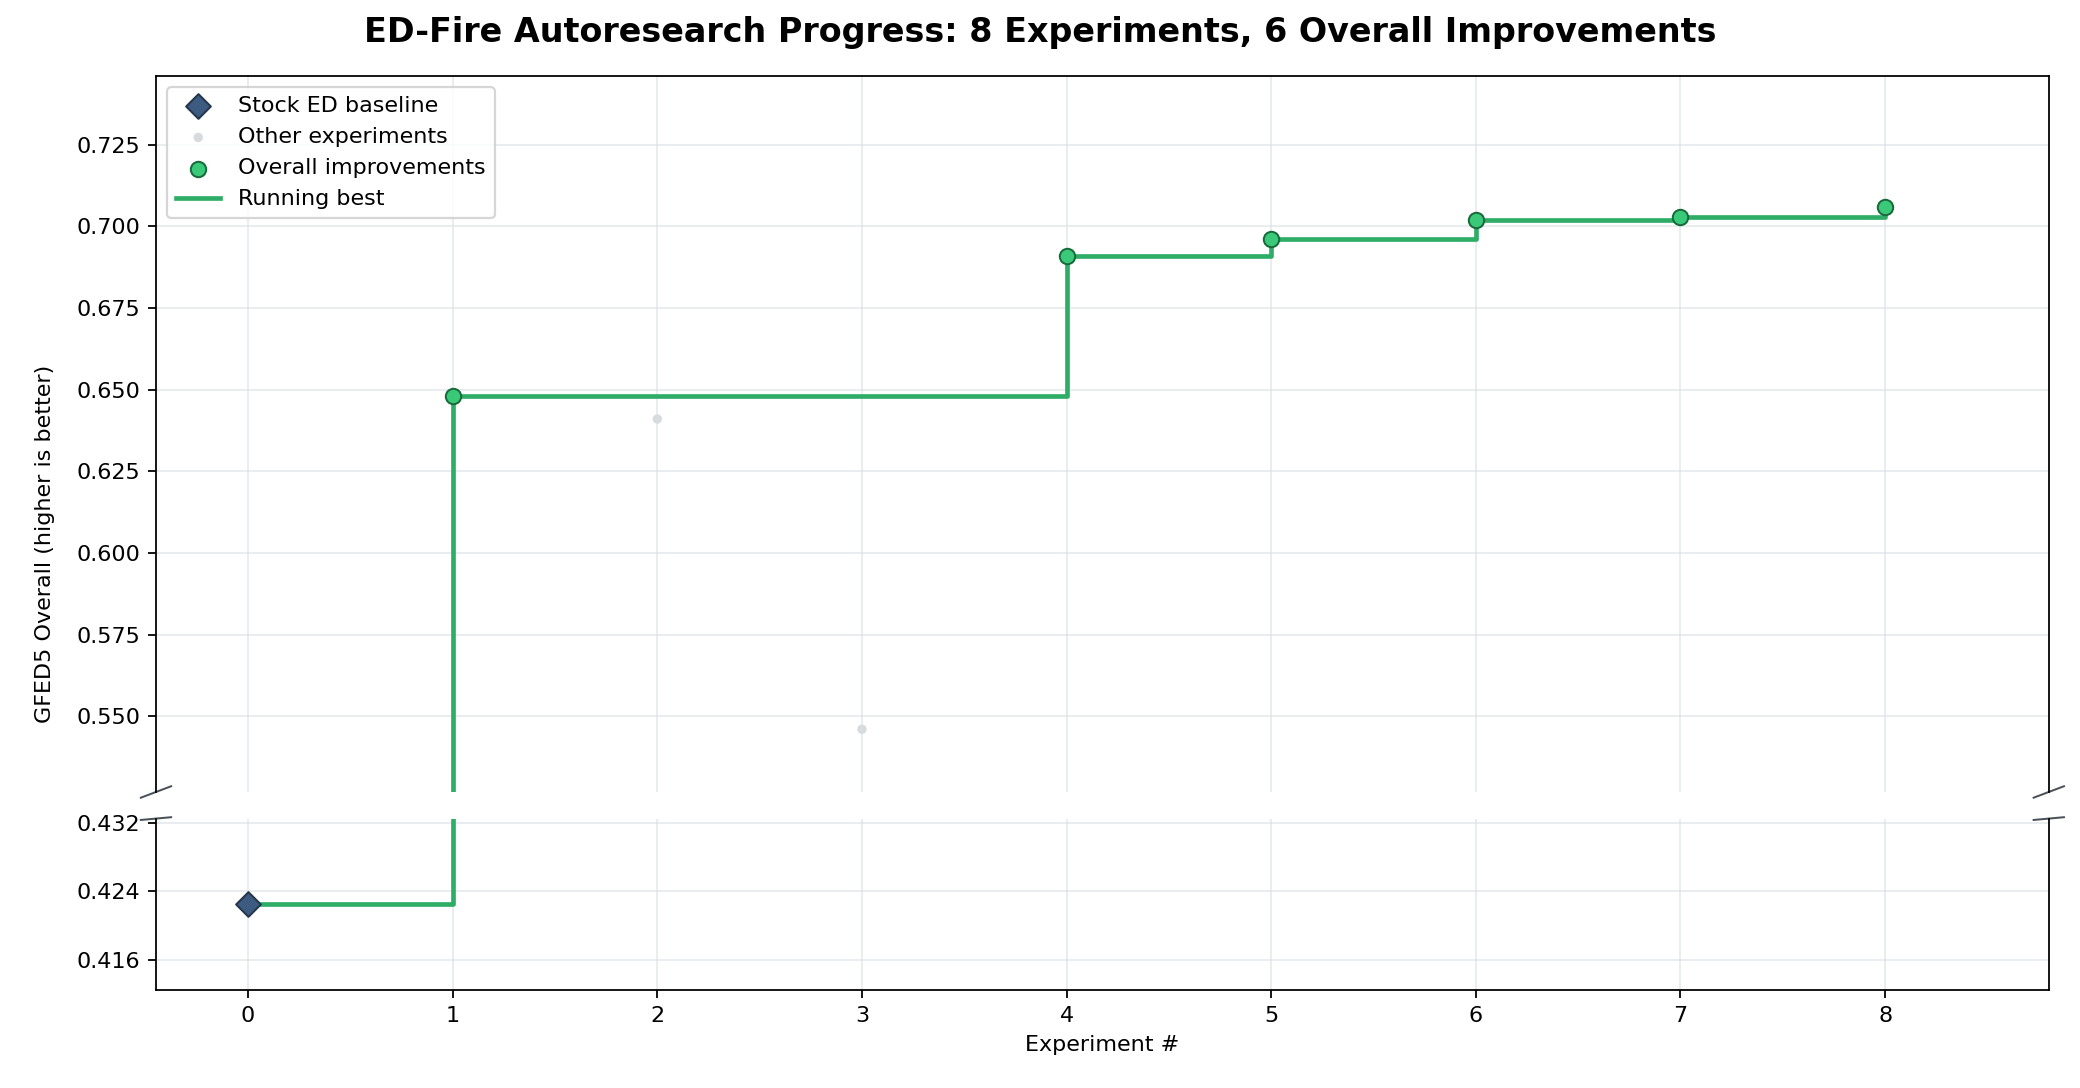
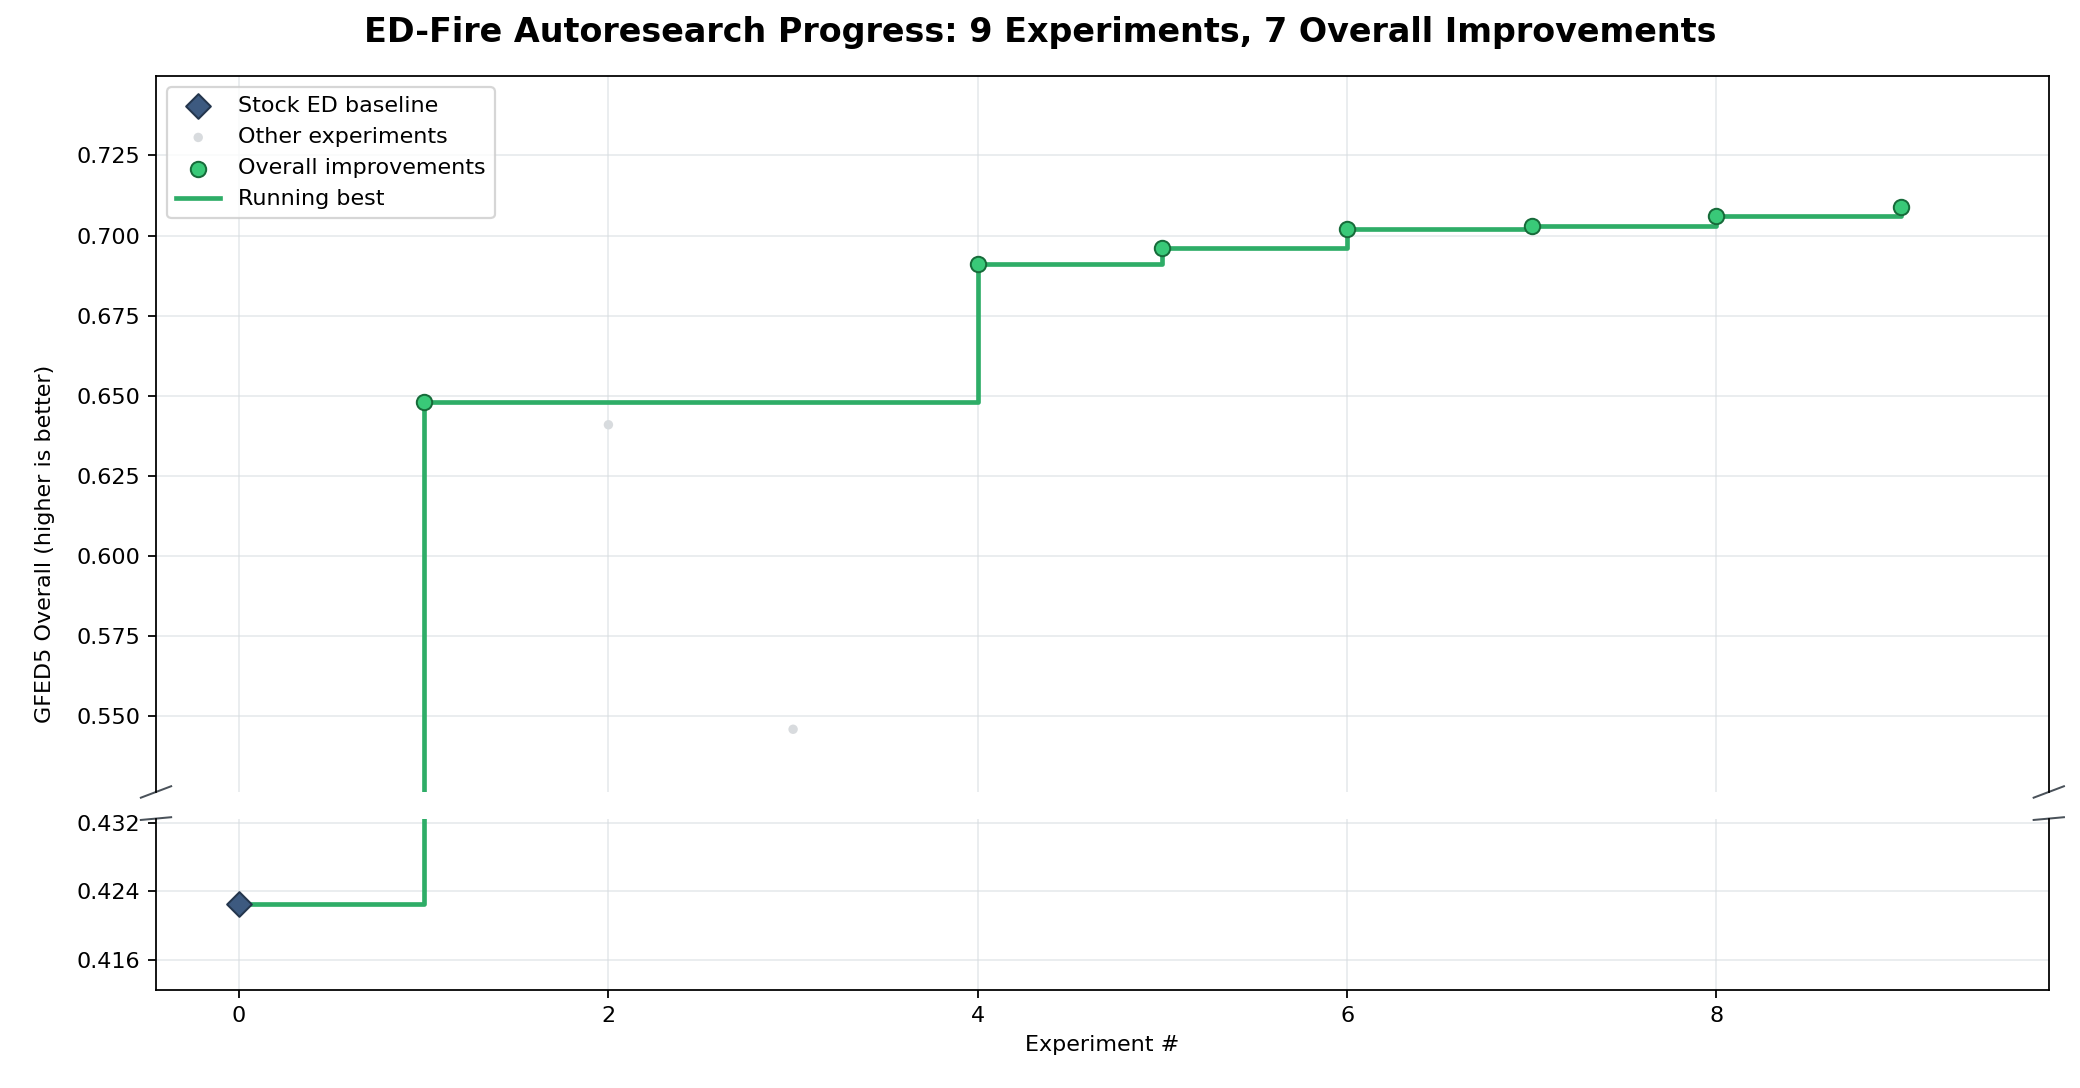
Record official mechanistic score 0.709

diff --git a/autoresearch/scratchpad/thread.md b/autoresearch/scratchpad/thread.md
@@ -4142,3 +4142,44 @@ a negligible scalar gain while overburning Mongolia and arid land, so it was
 rejected on ecological grounds. The remaining score headroom is approximately
 equal between annual-map and seasonal-cycle structure; another scalar tune cannot
 plausibly supply the jump to .72, let alone .8.
+
+
+### Entry 116: finite pathway banks improve seasonal structure to official .709
+
+A stage-by-stage reconstruction of the clean .706 stack showed where timing is
+earned and lost. The dead-fuel pool, green-up brake, and natural-surface bank raise
+the amplitude ratio from .426 to .514; the local footprint raises it to .570; the
+annual signed-state closure then trades some amplitude back to .537 while improving
+the annual map. This identified finite pathway storage as the one late-stage family
+with demonstrated leverage on the centered monthly RMSE.
+
+The successful extension partitions only existing hazard into managed fine fuel,
+crop residue, woody fuel, and an unresolved background share. For pathway `j`, a
+finite amount `s_j = w_j q_j h` enters a causal local bank and is released as
+
+    u_j = 1 - exp[-(1/24 + g_j h/(h + EMA12(h)) R_j)].
+
+Managed readiness requires six-month rain deficit, combustion dryness, cured GPP,
+and warmth; crop readiness additionally requires a rapid warm departure; woody
+readiness requires mature drought, anomalous warmth, trailing lightning, and no wet
+anomaly; the small background share requires mature drying and warmth. Every
+coefficient is globally shared, every state is prefix-causal and site-local, and the
+equation reallocates a bounded hazard stock rather than creating observed-area
+targets. It remains under the existing `surface_opportunity_bank` component so the
+15-component ablation contract is preserved.
+
+Commit `30ed65e` raises the exact proxy from .706105 to .708897 and evaluates
+officially at **.709** (bias .749, RMSE .537, seasonal .856, spatial .864). Eight of
+fourteen regions improve, led by BOAS, CEAS, SEAS, EQAS, SHAF, Europe, and Australia;
+the main losses are small declines in CEAM, TENA, and MIDE. The ecological audit
+passes: global area is 1.032 times observed, intact tropical closed canopy .859,
+tropical open woodland .966, productive rangeland .930, cropland 1.000, boreal
+forest .809, and arid low fuel 1.316. Halving every future input after month 96
+changes the first 96 predictions by exactly zero.
+
+A fresh three-fold whole-cell held-out causal-memory HGB reaches **.7436** when
+blended halfway with this model, improving every global metric. This is diagnostic
+headroom only, but it proves another roughly .035 remains recoverable from the same
+valid site-local state before new forcings are needed. The next task is to distil
+its conditional moisture, fuel, ignition, and incumbent-opportunity interactions;
+the learner itself never enters `model.py` or the official ledger.
